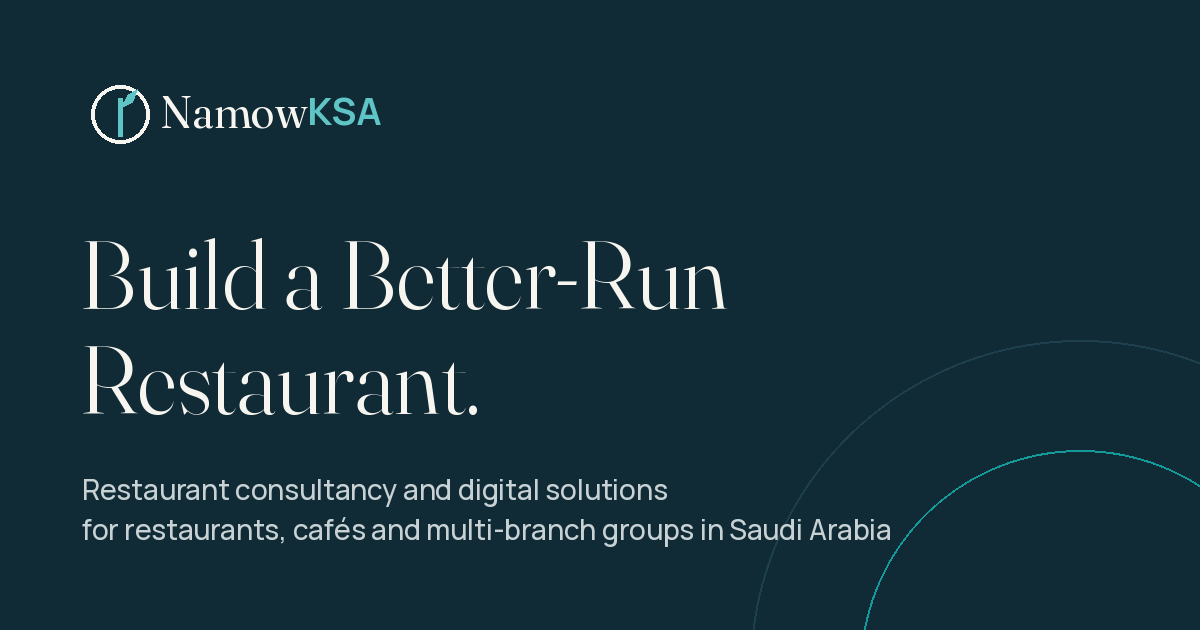
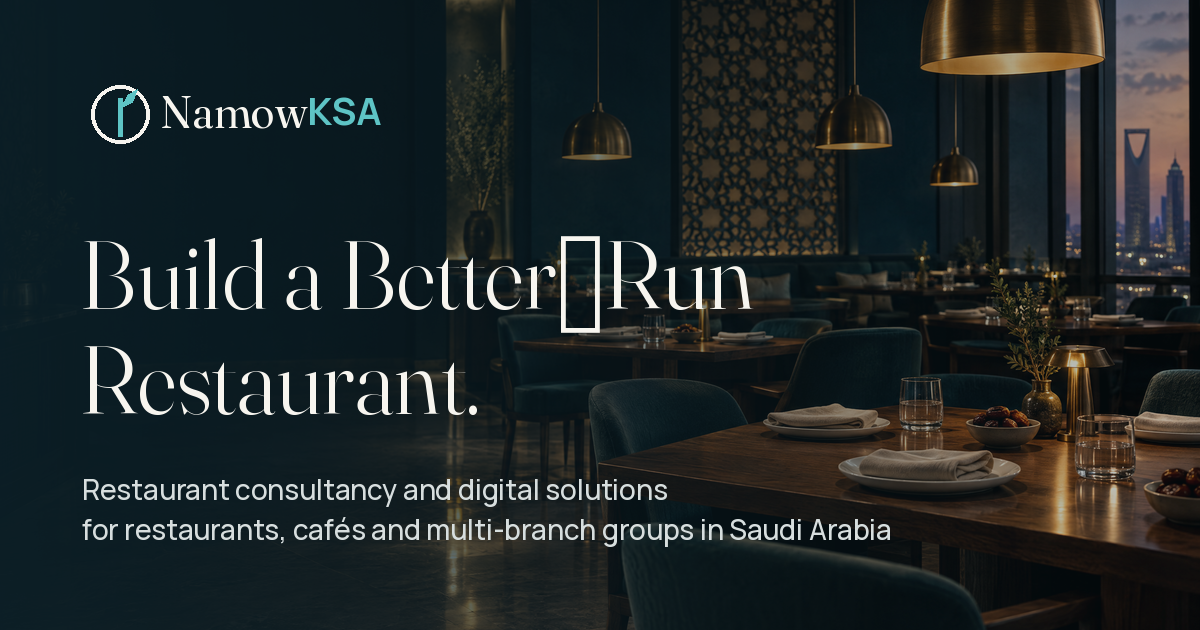
Add Higgsfield hero background and fix blocking dynamic routes
- Homepage hero: full-bleed restaurant interior generated with Higgsfield
  (GPT Image 2.5), optimised to a 284 KB JPEG; navy gradient for legibility,
  mirrored in Arabic so the text side stays dark
- Open Graph image now uses the hero photo
- Fix Next.js "encountered URL data during prerendering" errors on all
  services, digital-solutions and insights pages: params are read inside
  <Suspense> with a skeleton fallback so navigation between them is instant
- Methodology rail and menus render their content in the HTML (no JS needed
  to read it)

Claude-Session: https://claude.ai/code/session_0137nC3mQGZSnVGJfCehSjB4

diff --git a/src/app/[locale]/page.tsx b/src/app/[locale]/page.tsx
@@ -258,34 +258,39 @@ export default async function HomePage({ params }: PageProps<"/[locale]">) {
 function Hero({ locale }: { locale: Locale }) {
   const d = getDictionary(locale);
   const h = d.home;
+  const img = images.heroBackground;
   return (
-    <section className="on-dark relative overflow-hidden bg-navy text-ivory">
-      <div className="grid lg:min-h-[min(calc(100svh-76px),860px)] lg:grid-cols-12">
-        <div className="relative z-10 flex flex-col justify-center px-5 pb-16 pt-16 sm:px-8 lg:col-span-7 lg:py-24 lg:ps-[max(2.5rem,calc((100vw-1240px)/2+2.5rem))] lg:pe-16">
-          <h1 className="hero-rise max-w-[11ch] text-[length:var(--text-display-xl)] font-light leading-[0.98] text-ivory [font-variation-settings:'opsz'_144] lg:-me-24">
-            {h.heroTitle}
-          </h1>
-          <p className="hero-rise mt-8 max-w-[34rem] text-lg leading-relaxed text-ivory/78 [animation-delay:120ms] sm:text-xl">
-            {h.heroBody}
-          </p>
-          <div className="hero-rise mt-10 flex flex-wrap gap-3 [animation-delay:220ms]">
-            <ButtonLink href={`/${locale}/contact`} variant="accent">{h.heroPrimary}</ButtonLink>
-            <ButtonLink href={`/${locale}/services`} variant="ghostLight">
-              {h.heroSecondary}
-            </ButtonLink>
-          </div>
+    <section className="on-dark relative isolate overflow-hidden bg-navy-deep text-ivory">
+      {/* Full-bleed background, mirrored in Arabic so the dark side stays behind the text */}
+      <Photo
+        src={img.src}
+        alt={img.alt[locale]}
+        sizes="100vw"
+        priority
+        className="hero-image absolute inset-0 -z-10 bg-navy-deep"
+        imgClassName="object-[70%_50%] rtl:-scale-x-100"
+      />
+      <div
+        aria-hidden="true"
+        className="absolute inset-0 -z-10 bg-[linear-gradient(90deg,rgba(11,31,39,0.94)_0%,rgba(11,31,39,0.82)_38%,rgba(11,31,39,0.35)_68%,rgba(11,31,39,0.15)_100%)] rtl:-scale-x-100 max-lg:bg-[linear-gradient(180deg,rgba(11,31,39,0.55)_0%,rgba(11,31,39,0.85)_55%,rgba(11,31,39,0.96)_100%)]"
+      />
+      <div aria-hidden="true" className="absolute inset-x-0 bottom-0 -z-10 h-32 bg-gradient-to-t from-navy-deep/70 to-transparent" />
+      <Container className="flex min-h-[min(calc(100svh-76px),860px)] flex-col justify-end pb-16 pt-40 sm:pt-48 lg:justify-center lg:py-28">
+        <h1 className="hero-rise max-w-[11ch] text-[length:var(--text-display-xl)] font-light leading-[0.98] text-ivory [font-variation-settings:'opsz'_144] [text-shadow:0_2px_24px_rgba(11,31,39,0.45)]">
+          {h.heroTitle}
+        </h1>
+        <p className="hero-rise mt-8 max-w-[34rem] text-lg leading-relaxed text-ivory/85 [animation-delay:120ms] sm:text-xl">
+          {h.heroBody}
+        </p>
+        <div className="hero-rise mt-10 flex flex-wrap gap-3 [animation-delay:220ms]">
+          <ButtonLink href={`/${locale}/contact`} variant="accent">
+            {h.heroPrimary}
+          </ButtonLink>
+          <ButtonLink href={`/${locale}/services`} variant="ghostLight">
+            {h.heroSecondary}
+          </ButtonLink>
         </div>
-        <div className="relative lg:col-span-5">
-          <Photo
-            src={images.heroDish.src}
-            alt={images.heroDish.alt[locale]}
-            sizes="(min-width: 1024px) 42vw, 100vw"
-            priority
-            className="hero-image aspect-[4/3] h-full w-full sm:aspect-[16/9] lg:absolute lg:inset-0 lg:aspect-auto"
-          />
-          <div aria-hidden="true" className="pointer-events-none absolute inset-y-0 start-0 hidden w-32 bg-gradient-to-r from-navy to-transparent lg:block rtl:bg-gradient-to-l" />
-        </div>
-      </div>
+      </Container>
     </section>
   );
 }

diff --git a/src/components/visuals/MethodRail.tsx b/src/components/visuals/MethodRail.tsx
@@ -1,6 +1,6 @@
 "use client";
 
-import { AnimatePresence, MotionConfig, motion } from "motion/react";
+import { MotionConfig, motion } from "motion/react";
 import { useId, useRef, useState, type KeyboardEvent } from "react";
 import { cn } from "@/lib/cn";
 
@@ -47,8 +47,6 @@ export function MethodRail({
     e.preventDefault();
   };
 
-  const stage = stages[active];
-
   return (
     <MotionConfig reducedMotion="user">
       <div className="relative">
@@ -76,7 +74,8 @@ export function MethodRail({
                 role="tab"
                 type="button"
                 aria-selected={selected}
-                aria-controls={`${baseId}-panel`}
+                aria-controls={`${baseId}-panel-${i}`}
+                data-tilt={tilt}
                 tabIndex={selected ? 0 : -1}
                 onClick={() => setActive(i)}
                 className="group relative w-[10.5rem] shrink-0 snap-start pt-1 text-start outline-none lg:w-auto"
@@ -108,27 +107,22 @@ export function MethodRail({
           })}
         </div>
 
-        <div
-          id={`${baseId}-panel`}
-          role="tabpanel"
-          aria-labelledby={`${baseId}-tab-${active}`}
-          tabIndex={0}
-          className="mt-4 min-h-[13rem] border-t border-ivory/15 pt-8"
-        >
-          <AnimatePresence mode="wait" initial={false}>
-            <motion.div
-              key={stage.id}
-              initial={{ opacity: 0, y: 8 }}
-              animate={{ opacity: 1, y: 0 }}
-              exit={{ opacity: 0, y: -6 }}
-              transition={{ duration: 0.28, ease: [0.22, 1, 0.36, 1] }}
-              className="grid gap-8 md:grid-cols-12"
+        <div className="mt-4 min-h-[13rem] border-t border-ivory/15 pt-8">
+          {stages.map((st, i) => (
+            <div
+              key={st.id}
+              id={`${baseId}-panel-${i}`}
+              role="tabpanel"
+              aria-labelledby={`${baseId}-tab-${i}`}
+              tabIndex={0}
+              hidden={i !== active}
+              className="grid animate-[panel-in_0.32s_var(--ease-out-soft)] gap-8 md:grid-cols-12"
             >
-              <p className="font-[family-name:var(--font-display)] text-3xl text-ivory md:col-span-4">{stage.name}</p>
+              <p className="font-[family-name:var(--font-display)] text-3xl text-ivory md:col-span-4">{st.name}</p>
               <div className="md:col-span-5">
                 <p className="text-sm font-semibold text-sage-light">{labels.activities}</p>
                 <ul className="mt-3 space-y-2 text-ivory/85">
-                  {stage.activities.map((a) => (
+                  {st.activities.map((a) => (
                     <li key={a} className="flex gap-3">
                       <span className="mt-[0.7em] h-px w-3 shrink-0 bg-teal-light" aria-hidden="true" />
                       {a}
@@ -139,13 +133,13 @@ export function MethodRail({
               <div className="md:col-span-3">
                 <p className="text-sm font-semibold text-sage-light">{labels.outputs}</p>
                 <ul className="mt-3 space-y-2 text-ivory/85">
-                  {stage.outputs.map((o) => (
+                  {st.outputs.map((o) => (
                     <li key={o}>{o}</li>
                   ))}
                 </ul>
               </div>
-            </motion.div>
-          </AnimatePresence>
+            </div>
+          ))}
         </div>
       </div>
     </MotionConfig>

diff --git a/src/components/layout/HeaderClient.tsx b/src/components/layout/HeaderClient.tsx
@@ -137,6 +137,7 @@ export function HeaderClient({ data }: { data: NavData }) {
               <button
                 ref={megaButton}
                 type="button"
+                data-mega-toggle
                 aria-expanded={megaOpen}
                 aria-controls={megaId}
                 onClick={() => setMegaOpen((v) => !v)}
@@ -178,6 +179,7 @@ export function HeaderClient({ data }: { data: NavData }) {
           <button
             ref={mobileButton}
             type="button"
+            data-drawer-open
             aria-expanded={mobileOpen}
             aria-controls={mobileId}
             aria-label={labels.openMenu}
@@ -198,12 +200,10 @@ export function HeaderClient({ data }: { data: NavData }) {
         hidden={!megaOpen}
         className="absolute inset-x-0 top-full hidden border-y border-line bg-ivory shadow-[0_24px_48px_-24px_rgba(16,43,54,0.25)] lg:block"
       >
-        {megaOpen && (
-          <Container className="grid grid-cols-12 gap-10 py-10">
+        <Container className="grid grid-cols-12 gap-10 py-10">
             <MegaColumn title={labels.consultancy} items={data.consultancy} all={{ href: data.servicesHref, label: labels.allServices }} className="col-span-7" twoCol />
             <MegaColumn title={labels.digital} items={data.digital} all={{ href: data.digitalHref, label: labels.allDigital }} className="col-span-5 border-s border-line ps-10" />
           </Container>
-        )}
       </div>
 
     </header>
@@ -218,13 +218,12 @@ export function HeaderClient({ data }: { data: NavData }) {
       hidden={!mobileOpen}
       className="on-dark fixed inset-0 z-50 overflow-y-auto bg-navy text-ivory lg:hidden"
     >
-      {mobileOpen && (
-        <div className="flex min-h-full flex-col">
+      <div className="flex min-h-full flex-col">
           <Container className="flex h-[76px] items-center justify-between">
             <Link href={data.homeHref} onClick={() => setMobileOpen(false)} aria-label={`NamowKSA, ${labels.home}`}>
               <Logo tone="light" />
             </Link>
-            <button type="button" onClick={closeMobile} aria-label={labels.closeMenu} className="-me-2 inline-flex size-12 items-center justify-center">
+            <button type="button" data-drawer-close onClick={closeMobile} aria-label={labels.closeMenu} className="-me-2 inline-flex size-12 items-center justify-center">
               <svg viewBox="0 0 24 24" aria-hidden="true" className="size-6">
                 <path d="m6 6 12 12M18 6 6 18" stroke="currentColor" strokeWidth="1.6" strokeLinecap="round" />
               </svg>
@@ -252,7 +251,6 @@ export function HeaderClient({ data }: { data: NavData }) {
             </div>
           </Container>
         </div>
-      )}
     </div>
     </>
   );

diff --git a/src/app/[locale]/insights/[slug]/page.tsx b/src/app/[locale]/insights/[slug]/page.tsx
@@ -1,3 +1,4 @@
+import { Suspense } from "react";
 import type { Metadata } from "next";
 import { notFound } from "next/navigation";
 import { images } from "@/content/images";
@@ -5,6 +6,7 @@ import { getArticle, publishedArticles } from "@/content/insights";
 import { findService, type Service } from "@/content/services";
 import { getDictionary } from "@/i18n/get-dictionary";
 import { resolveLocale } from "@/lib/route";
+import { PageSkeleton } from "@/components/ui/PageSkeleton";
 import { absoluteUrl, pageMetadata } from "@/lib/seo";
 import { Photo } from "@/components/ui/Photo";
 import { Container, JsonLd, TextLink } from "@/components/ui/primitives";
@@ -30,7 +32,17 @@ export async function generateMetadata({ params }: PageProps<"/[locale]/insights
   });
 }
 
-export default async function ArticlePage({ params }: PageProps<"/[locale]/insights/[slug]">) {
+// Route params are read inside <Suspense> so client navigation between
+// slugs shows the skeleton instantly instead of blocking.
+export default function ArticlePage({ params }: PageProps<"/[locale]/insights/[slug]">) {
+  return (
+    <Suspense fallback={<PageSkeleton />}>
+      <ArticlePageContent params={params} />
+    </Suspense>
+  );
+}
+
+async function ArticlePageContent({ params }: { params: PageProps<"/[locale]/insights/[slug]">["params"] }) {
   const locale = await resolveLocale(params);
   const { slug } = await params;
   const article = getArticle(slug);

diff --git a/src/app/[locale]/digital-solutions/[slug]/page.tsx b/src/app/[locale]/digital-solutions/[slug]/page.tsx
@@ -1,8 +1,10 @@
+import { Suspense } from "react";
 import type { Metadata } from "next";
 import { notFound } from "next/navigation";
 import { getService, servicesBy } from "@/content/services";
 import { images } from "@/content/images";
 import { resolveLocale } from "@/lib/route";
+import { PageSkeleton } from "@/components/ui/PageSkeleton";
 import { pageMetadata } from "@/lib/seo";
 import { ServiceDetail } from "@/components/templates/ServiceDetail";
 
@@ -24,7 +26,17 @@ export async function generateMetadata({ params }: PageProps<"/[locale]/digital-
   });
 }
 
-export default async function DigitalServicePage({ params }: PageProps<"/[locale]/digital-solutions/[slug]">) {
+// Route params are read inside <Suspense> so client navigation between
+// slugs shows the skeleton instantly instead of blocking.
+export default function DigitalServicePage({ params }: PageProps<"/[locale]/digital-solutions/[slug]">) {
+  return (
+    <Suspense fallback={<PageSkeleton />}>
+      <DigitalServicePageContent params={params} />
+    </Suspense>
+  );
+}
+
+async function DigitalServicePageContent({ params }: { params: PageProps<"/[locale]/digital-solutions/[slug]">["params"] }) {
   const locale = await resolveLocale(params);
   const { slug } = await params;
   const service = getService("digital", slug);

diff --git a/src/app/[locale]/services/[slug]/page.tsx b/src/app/[locale]/services/[slug]/page.tsx
@@ -1,8 +1,10 @@
+import { Suspense } from "react";
 import type { Metadata } from "next";
 import { notFound } from "next/navigation";
 import { getService, servicesBy } from "@/content/services";
 import { images } from "@/content/images";
 import { resolveLocale } from "@/lib/route";
+import { PageSkeleton } from "@/components/ui/PageSkeleton";
 import { pageMetadata } from "@/lib/seo";
 import { ServiceDetail } from "@/components/templates/ServiceDetail";
 
@@ -24,7 +26,17 @@ export async function generateMetadata({ params }: PageProps<"/[locale]/services
   });
 }
 
-export default async function ConsultancyServicePage({ params }: PageProps<"/[locale]/services/[slug]">) {
+// Route params are read inside <Suspense> so client navigation between
+// slugs shows the skeleton instantly instead of blocking.
+export default function ConsultancyServicePage({ params }: PageProps<"/[locale]/services/[slug]">) {
+  return (
+    <Suspense fallback={<PageSkeleton />}>
+      <ConsultancyServicePageContent params={params} />
+    </Suspense>
+  );
+}
+
+async function ConsultancyServicePageContent({ params }: { params: PageProps<"/[locale]/services/[slug]">["params"] }) {
   const locale = await resolveLocale(params);
   const { slug } = await params;
   const service = getService("consultancy", slug);

diff --git a/src/components/ui/PageSkeleton.tsx b/src/components/ui/PageSkeleton.tsx
@@ -1,0 +1,23 @@
+import { Container } from "./primitives";
+
+/**
+ * Placeholder shown for an instant while a page's content streams in during
+ * client navigation between dynamic pages (services, articles). Mirrors the
+ * page hero proportions so the layout doesn't jump.
+ */
+export function PageSkeleton() {
+  return (
+    <div aria-busy="true" className="border-b border-line">
+      <Container className="grid gap-12 pb-16 pt-10 lg:grid-cols-12 lg:gap-16 lg:pb-24 lg:pt-14">
+        <div className="space-y-6 lg:col-span-6 lg:pt-4">
+          <div className="h-4 w-48 animate-pulse rounded-sm bg-ivory-deep" />
+          <div className="mt-10 h-4 w-40 animate-pulse rounded-sm bg-ivory-deep" />
+          <div className="h-14 w-11/12 animate-pulse rounded-sm bg-ivory-deep" />
+          <div className="h-14 w-3/4 animate-pulse rounded-sm bg-ivory-deep" />
+          <div className="h-24 w-full animate-pulse rounded-sm bg-ivory-deep" />
+        </div>
+        <div className="aspect-[4/3] w-full animate-pulse rounded-sm bg-ivory-deep lg:col-span-6 lg:aspect-[5/6]" />
+      </Container>
+    </div>
+  );
+}

diff --git a/src/content/images.ts b/src/content/images.ts
@@ -11,6 +11,14 @@ export type ImageAsset = { src: string; alt: L; credit?: string };
 const u = (id: string) => `https://images.unsplash.com/${id}`;
 
 export const images = {
+  /** Homepage hero background, generated with Higgsfield (GPT Image 2.5) for NamowKSA. */
+  heroBackground: {
+    src: "/images/hero-restaurant.jpg",
+    alt: {
+      en: "An upscale restaurant dining room in deep navy and teal, set for evening service under warm brass pendant lights",
+      ar: "صالة طعام راقية بدرجات الكحلي والأزرق المخضر، مُعدّة لخدمة المساء تحت إضاءة نحاسية دافئة",
+    },
+  },
   heroDish: {
     src: u("photo-1414235077428-338989a2e8c0"),
     alt: { en: "A plated dish under warm restaurant lighting", ar: "طبق مُقدَّم بعناية تحت إضاءة مطعم دافئة" },

diff --git a/src/app/globals.css b/src/app/globals.css
@@ -124,3 +124,8 @@
 }
 .hero-rise { animation: hero-rise 1s var(--ease-out-soft) both; }
 .hero-image img { animation: hero-image 1.6s var(--ease-out-soft) both; }
+
+@keyframes panel-in {
+  from { opacity: 0; transform: translateY(8px); }
+  to { opacity: 1; transform: none; }
+}
